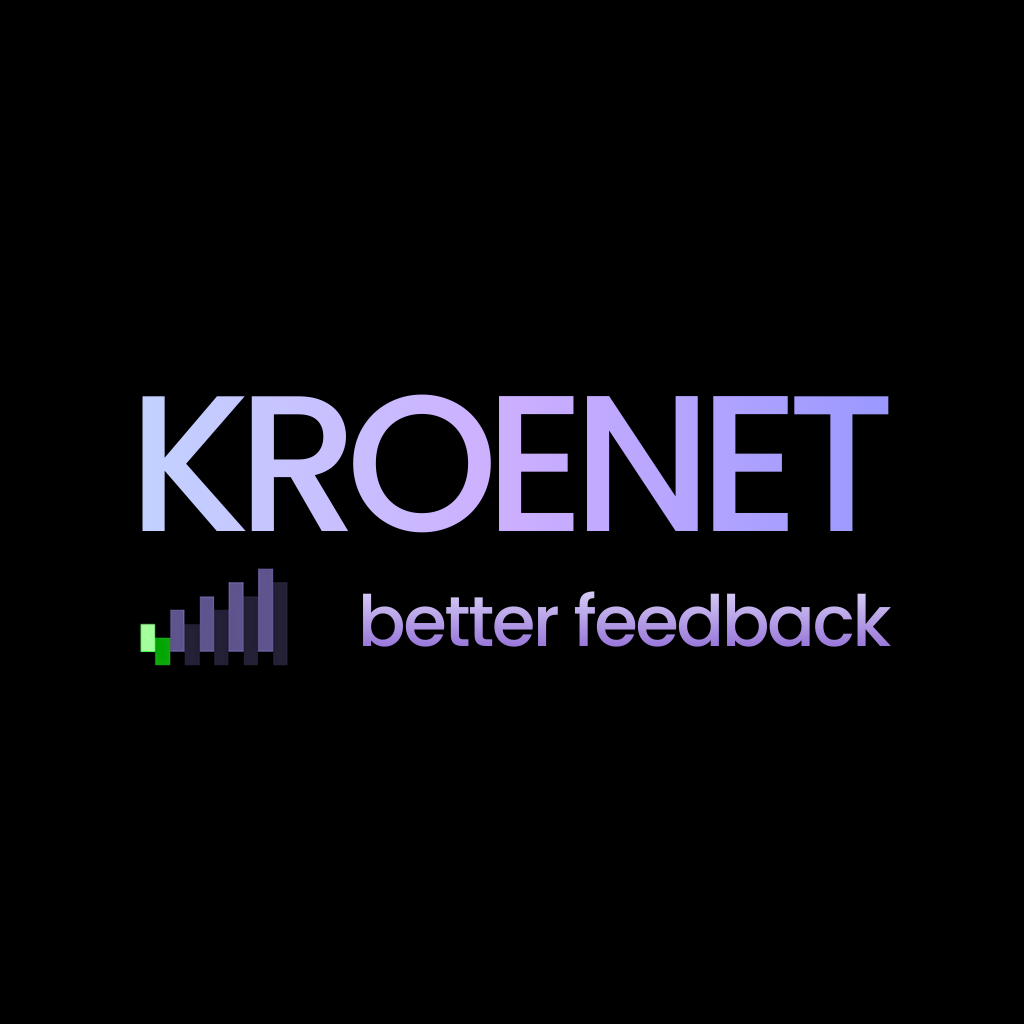
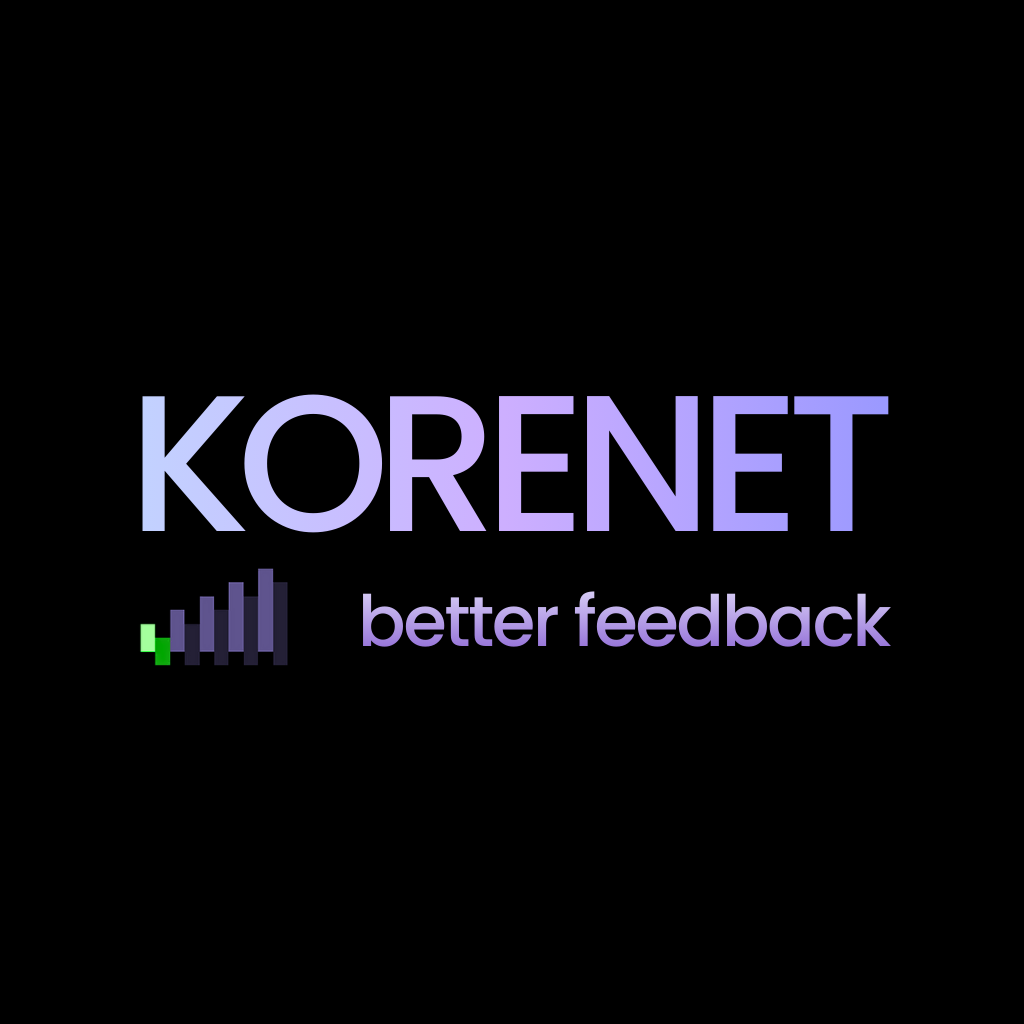
Minor Changes

Changed region(s): [[0.2188, 0.375, 0.5, 0.5312]]

diff --git a/src/client/java/com/fabledruns/korenet/PingTracker.java b/src/client/java/com/fabledruns/korenet/PingTracker.java
@@ -1,49 +1,66 @@
 package com.fabledruns.korenet;
 
 import net.minecraft.client.MinecraftClient;
+import net.minecraft.client.network.PlayerListEntry;
 
-import java.util.ArrayDeque;
-import java.util.Deque;
+import java.util.ArrayList;
+import java.util.List;
 
 public class PingTracker {
 
     private static final int MAX_SAMPLES = 20;
-    private static final Deque<Integer> samples = new ArrayDeque<>();
-    private static long lastUpdate = 0;
+    private static final List<Integer> samples = new ArrayList<>();
+    private static int progressMs = 0;
 
     public static void tick(int intervalMs) {
-        long now = System.currentTimeMillis();
-        if (now - lastUpdate < intervalMs) return;
-        lastUpdate = now;
+        progressMs += 50;
+        if (progressMs < intervalMs) return;
+        progressMs = 0;
 
         MinecraftClient mc = MinecraftClient.getInstance();
-        if (mc.getNetworkHandler() == null) return;
-        if (mc.player == null) return;
 
-        var entry = mc.getNetworkHandler().getPlayerListEntry(mc.player.getUuid());
+        if (mc.getNetworkHandler() == null || mc.player == null) {
+            clear();
+            return;
+        }
+
+        PlayerListEntry entry = mc.getNetworkHandler().getPlayerListEntry(mc.player.getUuid());
         if (entry == null) return;
-        int ping = entry.getLatency();
-        samples.addLast(ping);
 
-        if (samples.size() > MAX_SAMPLES) {
-            samples.removeFirst();
+        int ping = entry.getLatency();
+
+        synchronized (samples) {
+            samples.add(ping);
+            if (samples.size() > MAX_SAMPLES) {
+                samples.remove(0);
+            }
         }
     }
 
     public static int getPing() {
-        return samples.isEmpty() ? -1 : samples.getLast();
+        synchronized (samples) {
+            return samples.isEmpty() ? -1 : samples.get(samples.size() - 1);
+        }
     }
 
     public static int getJitter() {
-        if (samples.size() < 2) return 0;
+        synchronized (samples) {
+            if (samples.size() < 2) return 0;
 
-        int min = Integer.MAX_VALUE;
-        int max = Integer.MIN_VALUE;
+            int min = Integer.MAX_VALUE;
+            int max = Integer.MIN_VALUE;
 
-        for (int p : samples) {
-            min = Math.min(min, p);
-            max = Math.max(max, p);
+            for (int p : samples) {
+                if (p < min) min = p;
+                if (p > max) max = p;
+            }
+            return max - min;
         }
-        return max - min;
+    }
+
+    public static void clear() {
+        synchronized (samples) {
+            samples.clear();
+        }
     }
 }

diff --git a/src/client/java/com/fabledruns/korenet/hud/KorenetHud.java b/src/client/java/com/fabledruns/korenet/hud/KorenetHud.java
@@ -27,7 +27,7 @@ public class KorenetHud {
     }
 
     private static void renderHudContent(DrawContext context, MinecraftClient mc, boolean demoMode) {
-        int ping = PingTracker.getPing();
+        int ping   = PingTracker.getPing();
         int jitter = PingTracker.getJitter();
 
         HudText hudText = switch (getDisplayMode(mc, demoMode)) {

diff --git a/README.md b/README.md
@@ -1,7 +1,7 @@
-# KoreNet
+# Korenet
 
 Ever feel like your client and the server are having two completely different conversations?  
-Yeah. KoreNet shows you *what’s actually happening*.
+Yeah. Korenet shows you *what’s actually happening*.
 
 ## What it does
 
